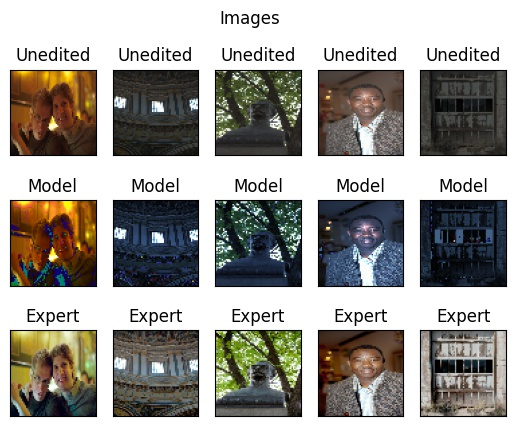
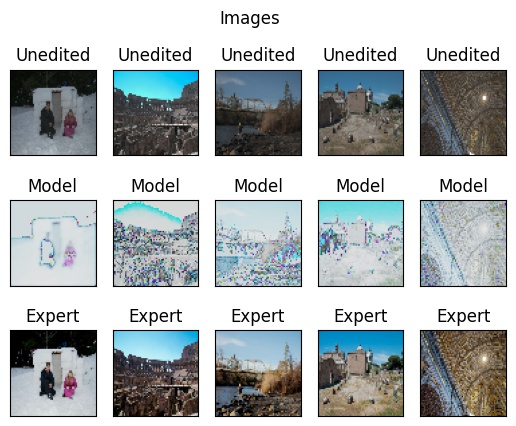
Update hyperparameters

diff --git a/nn/models.py b/nn/models.py
@@ -111,9 +111,9 @@ class Generator(tf.keras.Model):
 		return self.dense_1(self.flatten(image))
 
 	def scale_action_space(self, act):
-		actions = (tf.cast(act, tf.float32) - (self.L - 1) / 2) / ((self.L - 1) / 2)
-		return np.clip(actions / 1.0, self.a_min, self.a_max)
-		# return self.a_min + (self.a_max - self.a_min) * ((act - 1) / (self.L - 1))
+		# actions = (tf.cast(act, tf.float32) - (self.L - 1) / 2) / ((self.L - 1) / 2)
+		# return np.clip(actions / 1.0, self.a_min, self.a_max)
+		return self.a_min + (self.a_max - self.a_min) * ((act - 1) / (self.L - 1))
 
 	# @tf.function
 	def loss_function(self, state, y_model, d_model):
@@ -200,9 +200,9 @@ class Discriminator(tf.keras.Model):
 	# @tf.function
 	def loss_function(self, y_model, y_expert, d_model, d_expert):
 		# WGAN discriminator loss
-		wgan_disc_loss = tf.reduce_mean(d_model) - tf.reduce_mean(d_expert)
+		# wgan_disc_loss = tf.reduce_mean(d_model) - tf.reduce_mean(d_expert)
 		# Gradient penalty
-		gp = self._gradient_penalty(y_expert, y_model)
-		return wgan_disc_loss + self.lda * gp
-		# dcgan_disc_loss = tf.reduce_sum(tf.math.softplus(-d_expert)) + tf.reduce_sum(tf.math.softplus(d_model))
-		# return dcgan_disc_loss / len(d_model)
+		# gp = self._gradient_penalty(y_expert, y_model)
+		# return wgan_disc_loss + self.lda * gp
+		dcgan_disc_loss = tf.reduce_sum(tf.math.softplus(-d_expert)) + tf.reduce_sum(tf.math.softplus(d_model))
+		return dcgan_disc_loss / len(d_model)

diff --git a/main.py b/main.py
@@ -162,7 +162,7 @@ def train(dataset, manager, generator, discriminator):
 					(prob, act), value = generator(x_model)
 					act = generator.scale_action_space(act)
 
-					y_model = PhotoEditor.edit(x_model.numpy(), act)
+					y_model = PhotoEditor.edit(x_model.numpy(), act.numpy())
 					y_model = tf.convert_to_tensor(y_model, dtype=tf.float32)
 					d_model = discriminator(x_model)
 
@@ -175,12 +175,11 @@ def train(dataset, manager, generator, discriminator):
 			# Update Discriminator
 			for i in range(hp.disc_update_freq):
 				with tf.GradientTape() as disc_tape:
-					x_model, y_expert = batch[i, 0], batch[i, 1]
-					x_model, y_expert = tf.expand_dims(x_model, 0), tf.expand_dims(y_expert, 0)
+					x_model, y_expert = batch[:, 0], batch[:, 1]
 					(prob, act), value = generator(x_model)
-					act = generator.scale_action_space(act)[None]
+					act = generator.scale_action_space(act)
 
-					y_model = PhotoEditor.edit(x_model.numpy(), act)
+					y_model = PhotoEditor.edit(x_model.numpy(), act.numpy())
 					y_model = tf.convert_to_tensor(y_model, dtype=tf.float32)
 					d_expert = discriminator(y_expert)
 					d_model = discriminator(y_model)

diff --git a/nn/hyperparameters.py b/nn/hyperparameters.py
@@ -2,7 +2,7 @@
 img_size = 64
 
 # Training parameters
-num_epochs = 50
+num_epochs = 20
 batch_size = 20
 learning_rate = 1e-4
 beta_1 = 0.5
@@ -10,7 +10,6 @@ gen_update_freq = 1
 disc_update_freq = 5
 print_every_x_batches = 1
 save_every_x_batches = 5
-generating_episodes = 20
 
 lr_alpha = 0.2
 test_images = 5
@@ -18,7 +17,7 @@ test_images = 5
 # Model hyper-parameters
 L = 33
 K = 11
-alpha = 100
+alpha = 1
 beta = 1e-3
 lda = 10.0
 
